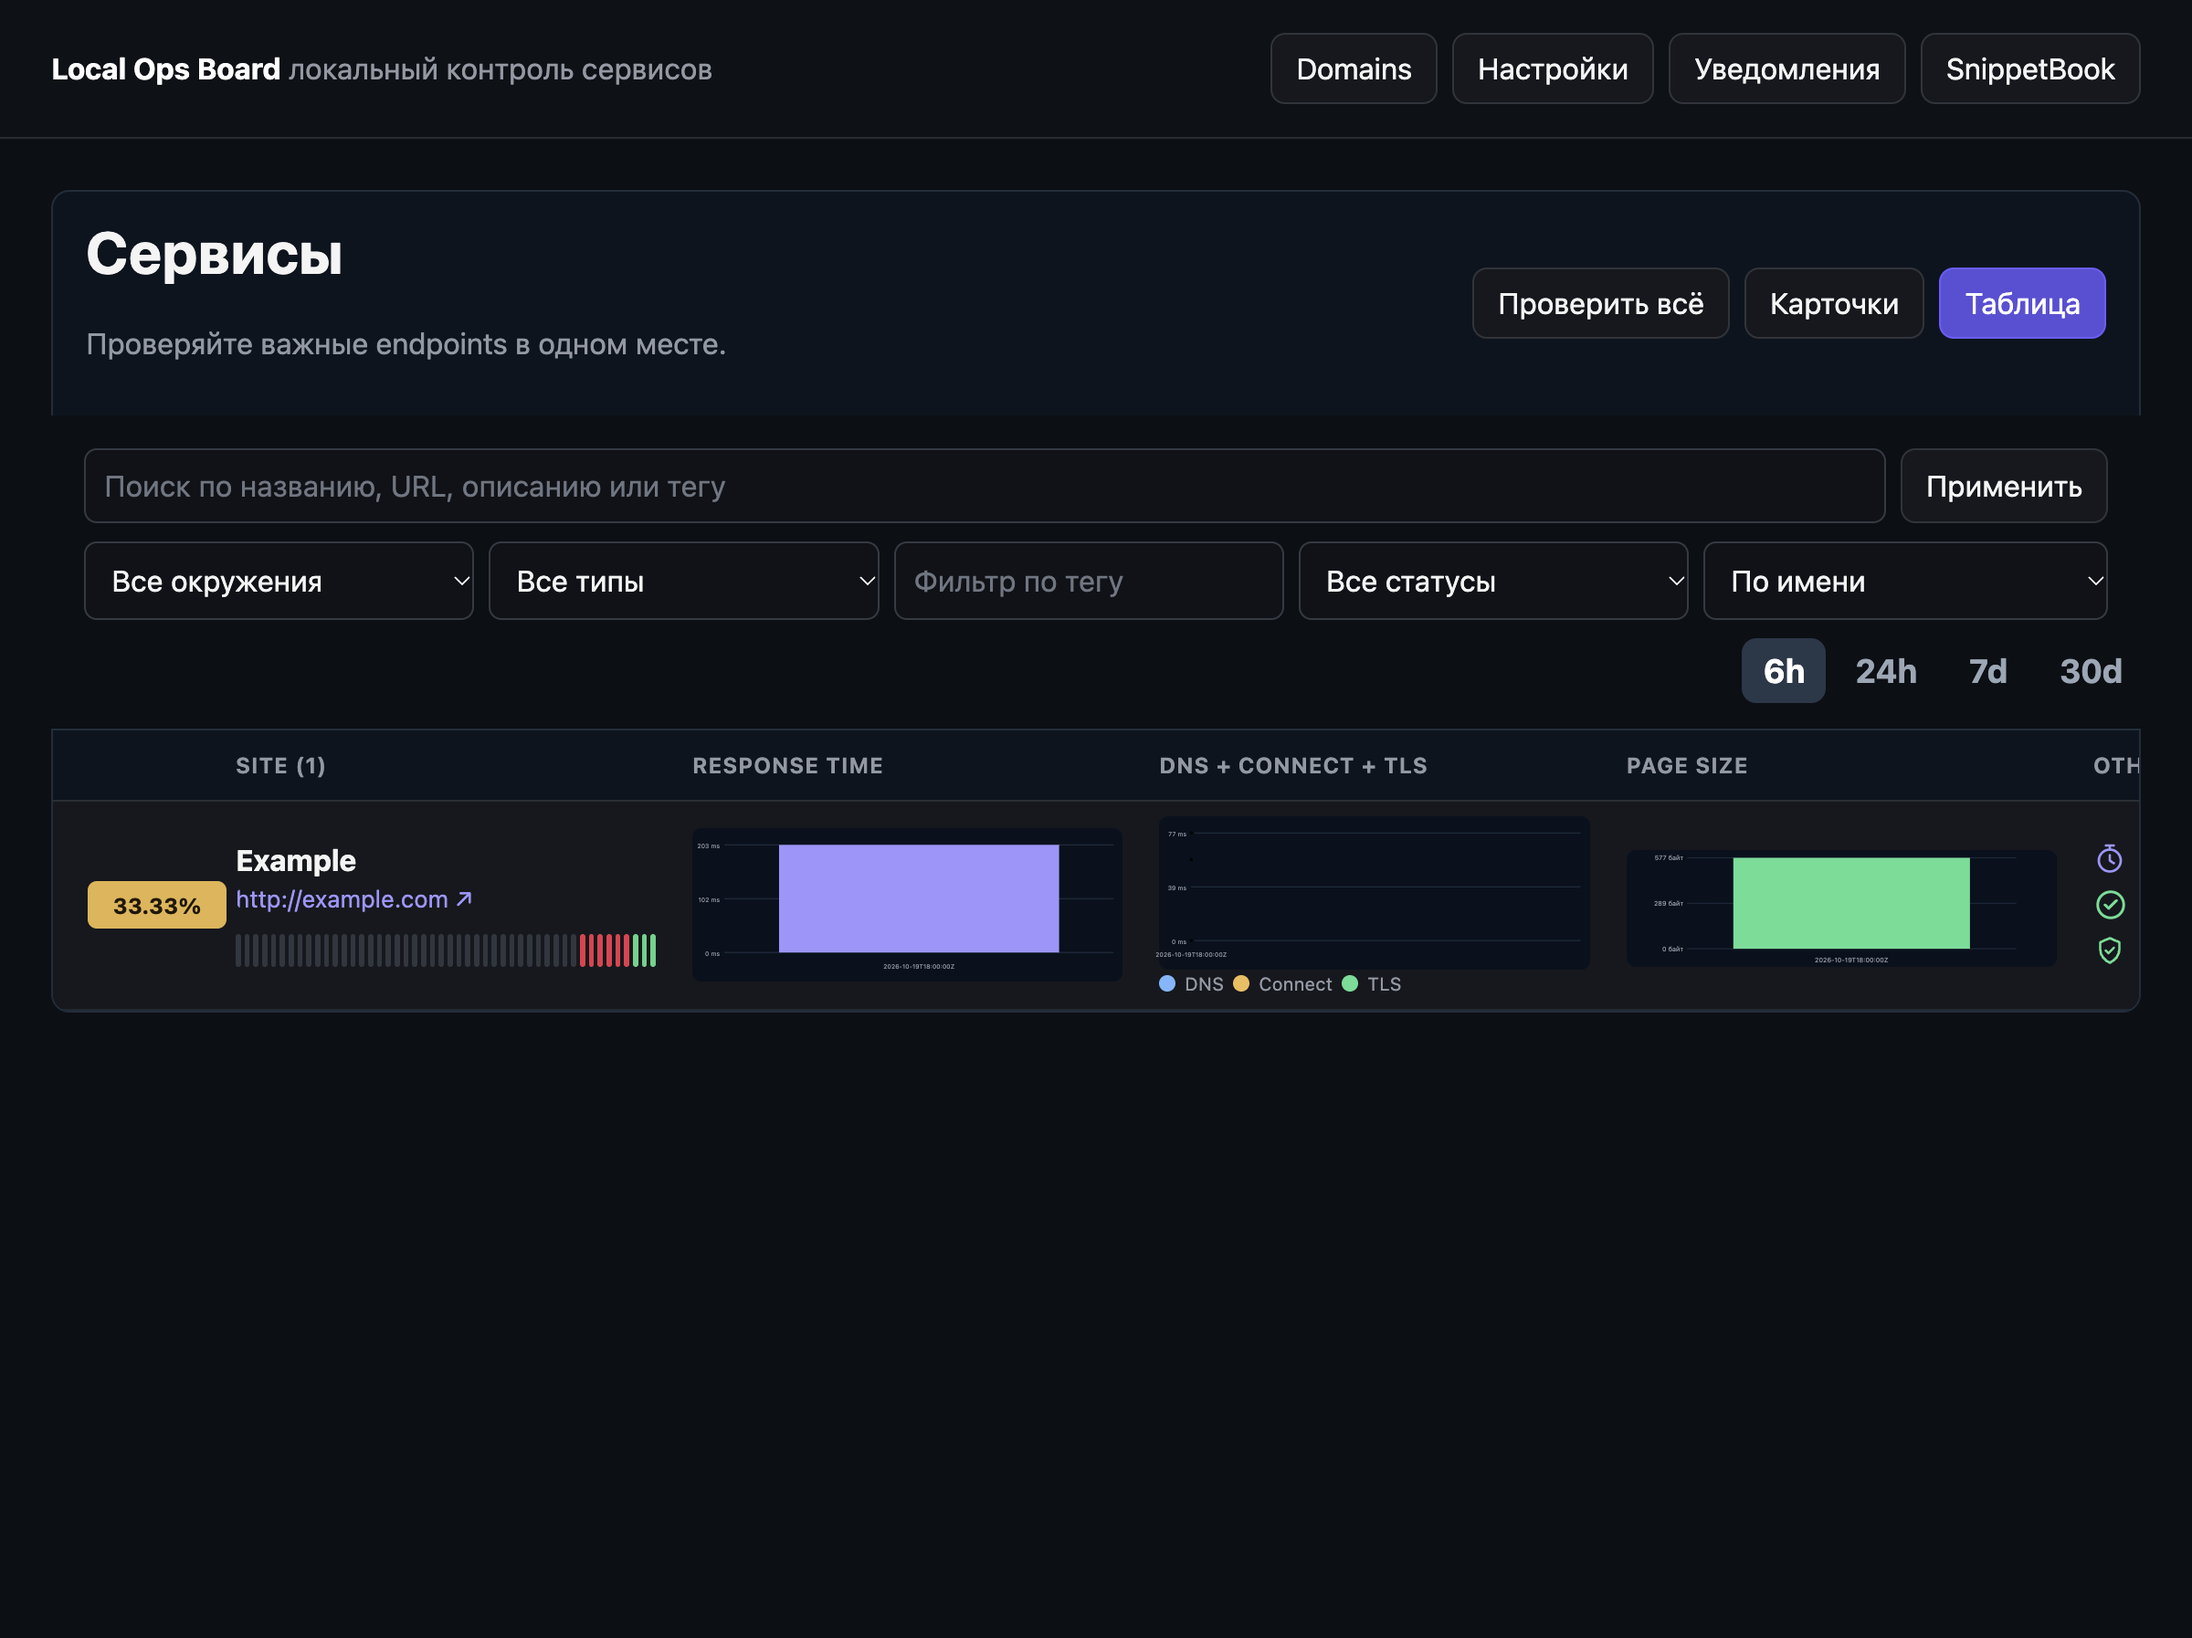
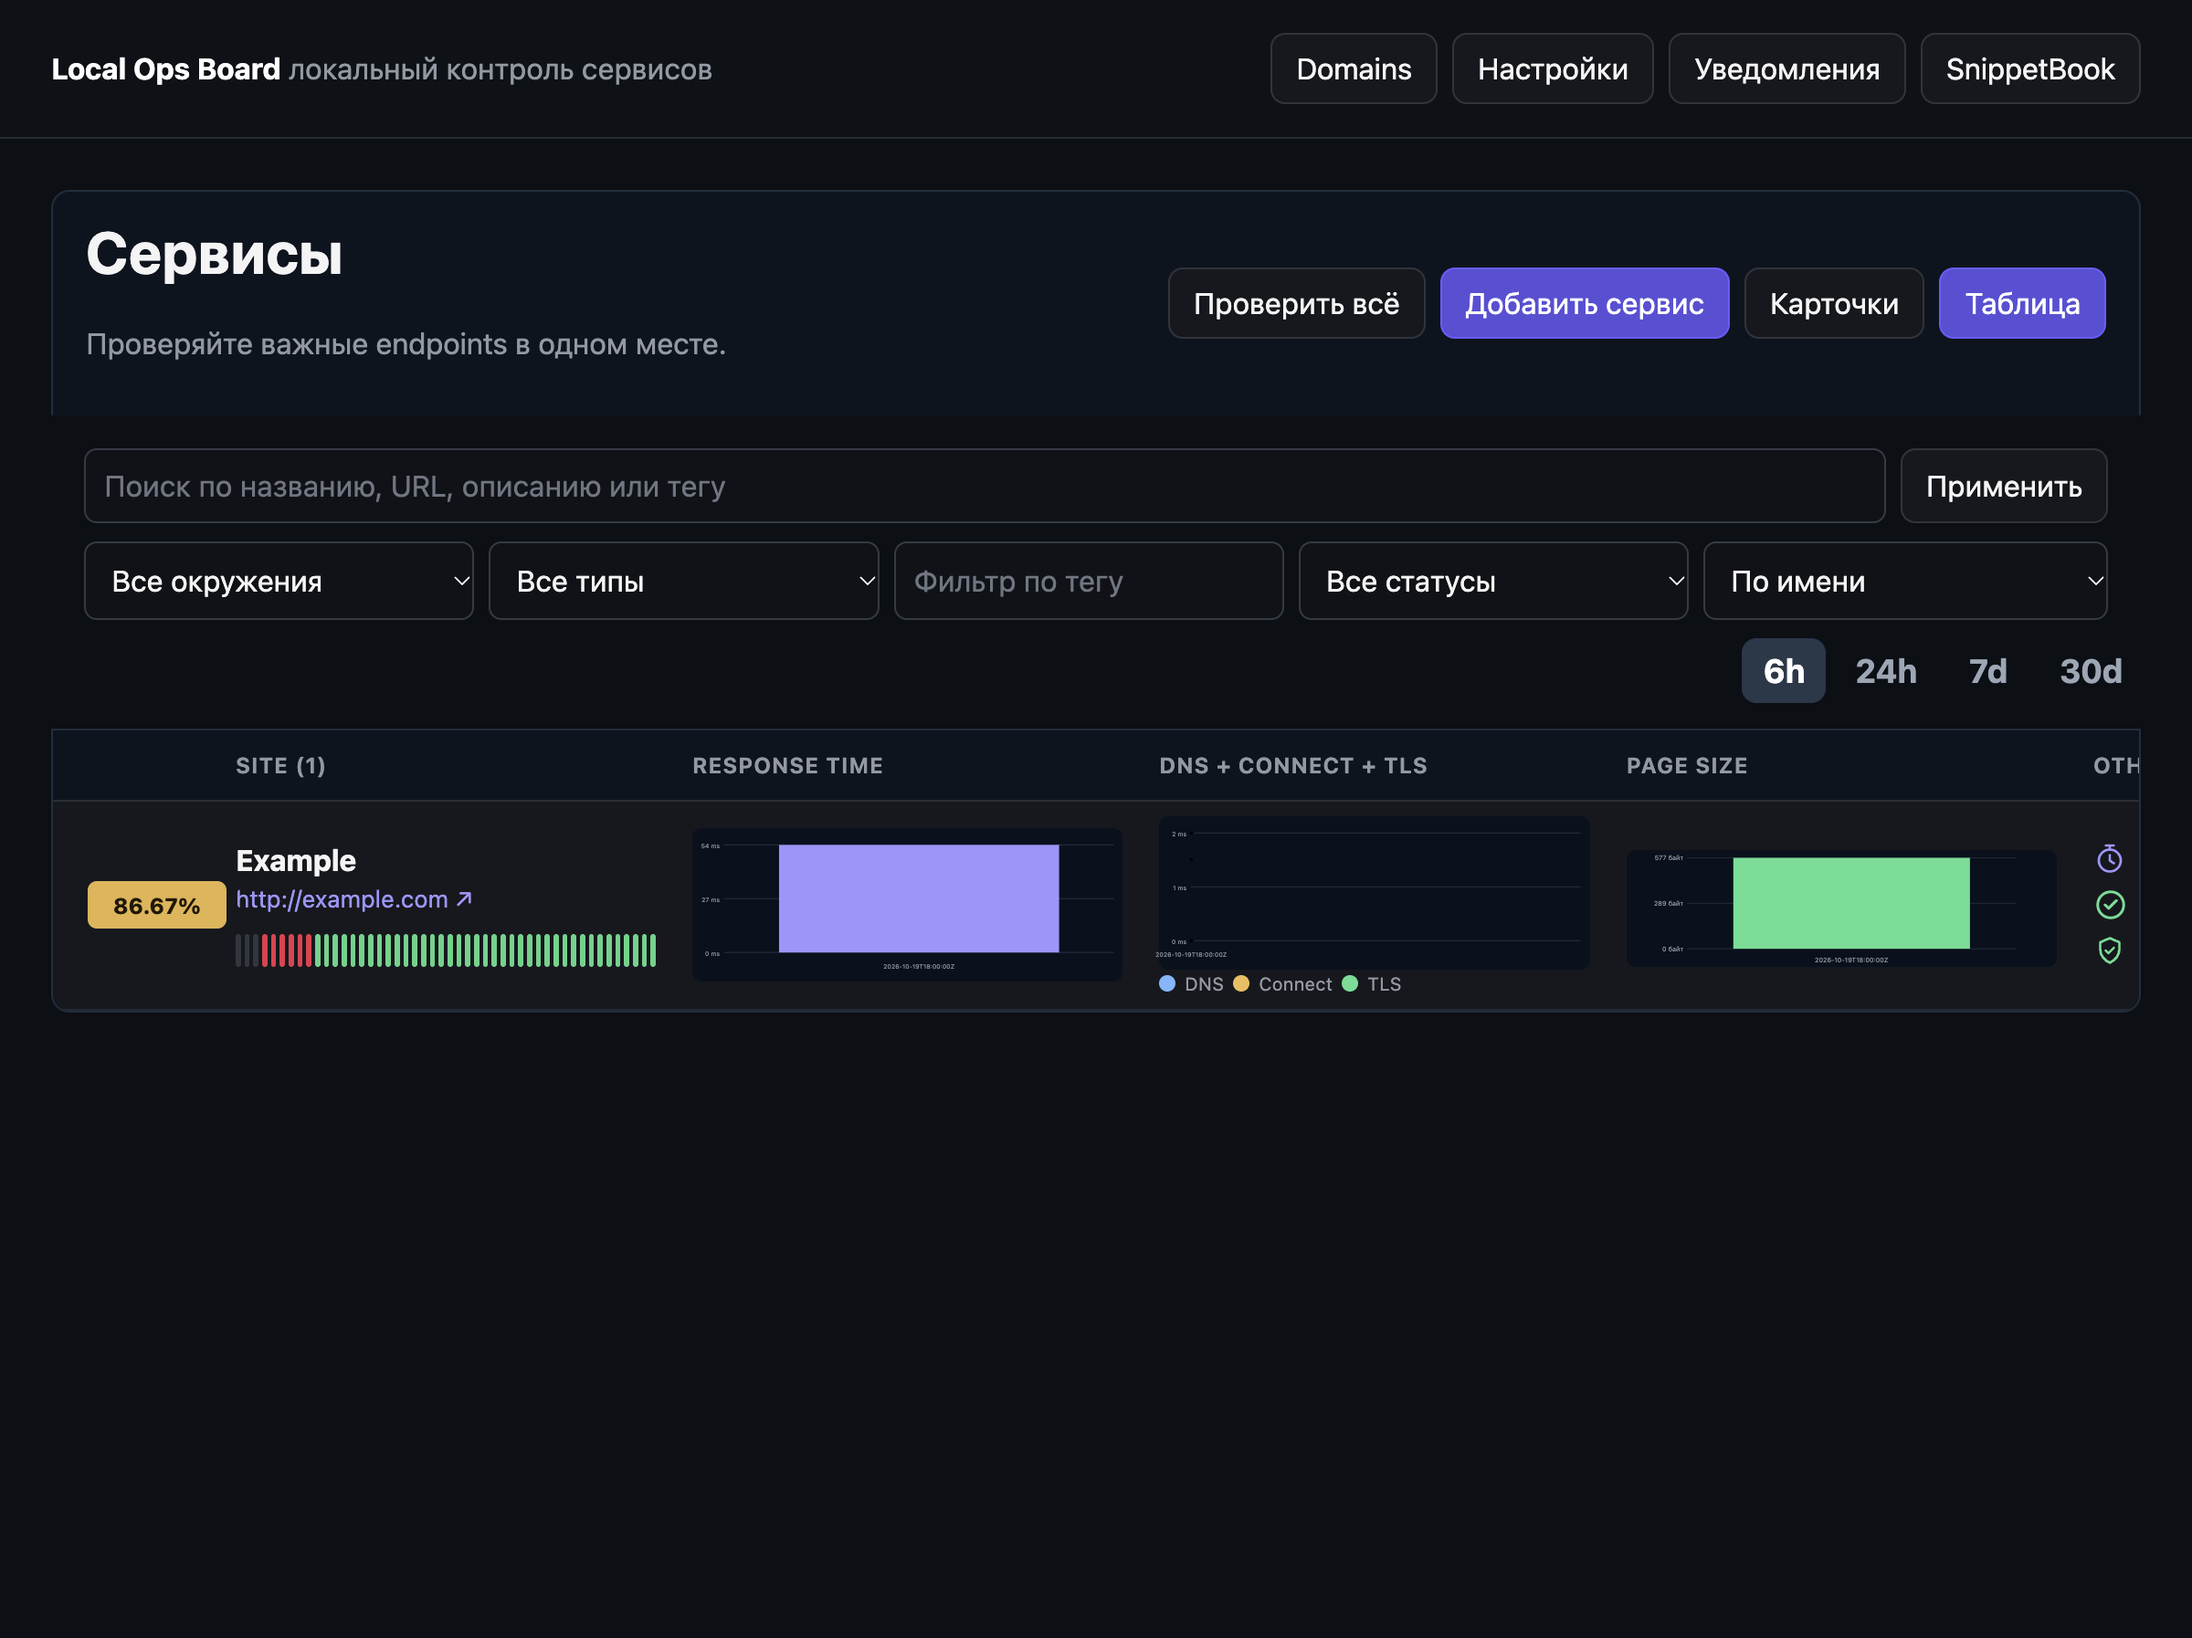
feat: add service button to uptime table

diff --git a/web/ops.html b/web/ops.html
@@ -13,7 +13,7 @@
       <aside class="service-sidebar panel"><div class="sidebar-head"><div><h2>Сервисы</h2><p class="muted">Состояние и история</p></div><button id="newService" class="primary" title="Добавить сервис">+</button></div><div id="serviceSidebarList" class="service-sidebar-list"></div><div class="mail-sidebar-section"><div class="sidebar-head"><div><h2>Domains</h2><p class="muted">Постоянные проверки</p></div><a class="sidebar-add" href="/uptime/domain" title="Добавить проверку домена">+</a></div><div id="mailSidebarList" class="service-sidebar-list"></div></div></aside>
       <div class="ops-content">
     <section class="summary"><div class="metric"><span>Всего</span><strong id="total">0</strong></div><div class="metric online"><span>Работают</span><strong id="online">0</strong></div><div class="metric degraded"><span>Проблемы</span><strong id="degraded">0</strong></div><div class="metric offline"><span>Недоступны</span><strong id="offline">0</strong></div></section>
-    <section class="panel service-catalog-panel"><div class="panel-head"><div><h1>Сервисы</h1><p class="muted">Проверяйте важные endpoints в одном месте.</p></div><div class="actions"><button id="checkAll">Проверить всё</button><button id="cardView" type="button">Карточки</button><button id="tableView" type="button">Таблица</button></div></div>
+    <section class="panel service-catalog-panel"><div class="panel-head"><div><h1>Сервисы</h1><p class="muted">Проверяйте важные endpoints в одном месте.</p></div><div class="actions"><button id="checkAll">Проверить всё</button><button id="newServiceTable" class="primary" type="button">Добавить сервис</button><button id="cardView" type="button">Карточки</button><button id="tableView" type="button">Таблица</button></div></div>
       <div class="service-search"><input id="serviceSearch" placeholder="Поиск по названию, URL, описанию или тегу" /><button id="applyFilters">Применить</button></div>
       <div class="filters"><select id="environmentFilter"><option value="">Все окружения</option><option>production</option><option>staging</option><option>development</option></select><select id="typeFilter"><option value="">Все типы</option><option value="http">HTTP(s)</option><option value="smtp">SMTP(s)</option><option value="imap">IMAP(s)</option><option value="pop3">POP3(s)</option><option value="mysql">MySQL</option><option value="redis">Redis(s)</option><option value="rabbitmq">RabbitMQ / AMQP(s)</option><option value="postgres">PostgreSQL</option></select><input id="tagFilter" placeholder="Фильтр по тегу" /><select id="statusFilter"><option value="">Все статусы</option><option value="online">Работает</option><option value="degraded">Проблемы</option><option value="offline">Недоступен</option><option value="tls_error">TLS error</option></select><select id="sortFilter"><option value="name">По имени</option><option value="status">По статусу</option><option value="response_time">По response time</option><option value="last_check">По последней проверке</option></select></div>
       <div id="catalogPeriods" class="catalog-periods" aria-label="Период графиков"><button data-catalog-period="6h" class="active">6h</button><button data-catalog-period="24h">24h</button><button data-catalog-period="7d">7d</button><button data-catalog-period="30d">30d</button></div>
@@ -31,6 +31,6 @@
       checkTypeSelect.innerHTML = '<option value="http">HTTP(s)</option><option value="smtp">SMTP(s)</option><option value="imap">IMAP(s)</option><option value="pop3">POP3(s)</option><option value="mysql">MySQL</option><option value="redis">Redis(s)</option><option value="rabbitmq">RabbitMQ / AMQP(s)</option><option value="postgres">PostgreSQL</option>';
     }
   </script>
-  <script src="/ops.js?v=46"></script>
+  <script src="/ops.js?v=47"></script>
 </body>
 </html>

diff --git a/web/ops.js b/web/ops.js
@@ -487,7 +487,7 @@ async function openDetail(id) {
 async function deleteService(id) { if (!confirm('Удалить сервис и его историю проверок?')) return; try { await api(`/services/${id}`, { method: 'DELETE' }); await load(); } catch (error) { alert('Ошибка удаления: ' + error.message); } }
 async function showNotifications() { const data = await api('/notifications'); if ('Notification' in window && Notification.permission === 'default') await Notification.requestPermission(); for (const item of data.notifications.filter(n => !n.read)) { if ('Notification' in window && Notification.permission === 'granted') new Notification(item.title, { body: item.message }); } await api('/notifications/read', { method: 'POST' }); alert(data.notifications.length ? data.notifications.map(n => `${n.title}: ${n.message}`).join('\n') : 'Новых уведомлений нет'); }
 
-$('newService').onclick = openNew; $('closeModal').onclick = closeModal; $('cancel').onclick = closeModal; $('checkAll').onclick = checkAll; $('applyFilters').onclick = load; $('notificationsButton').onclick = showNotifications; $('closeDetail').onclick = () => $('detailModal').classList.add('hidden');
+['newService', 'newServiceTable'].forEach(id => { if ($(id)) $(id).onclick = openNew; }); $('closeModal').onclick = closeModal; $('cancel').onclick = closeModal; $('checkAll').onclick = checkAll; $('applyFilters').onclick = load; $('notificationsButton').onclick = showNotifications; $('closeDetail').onclick = () => $('detailModal').classList.add('hidden');
 $('cardView').onclick = () => { viewMode = 'cards'; localStorage.setItem('uptime-view-mode-v2', viewMode); applyViewMode(); renderServices(); };
 $('tableView').onclick = () => { viewMode = 'table'; localStorage.setItem('uptime-view-mode-v2', viewMode); applyViewMode(); renderServices(); };
 $('serviceSearch').onkeydown = event => { if (event.key === 'Enter') load(); };
